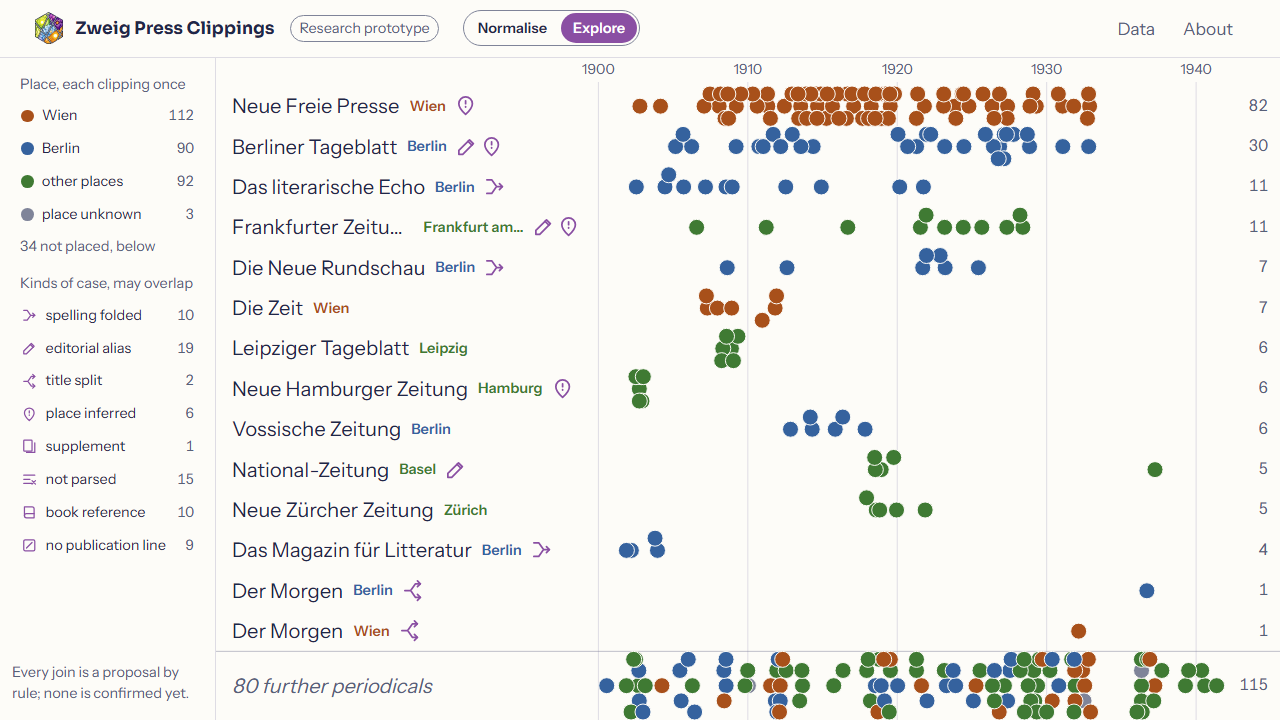
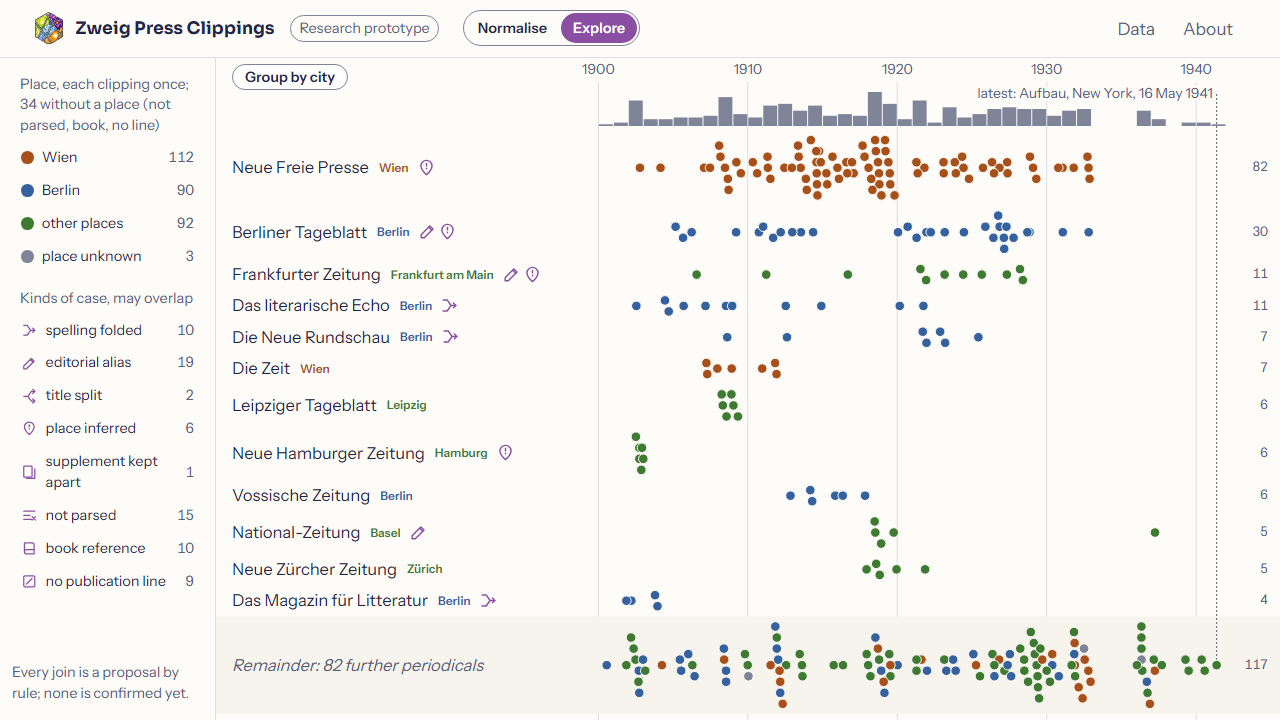
After a fresh reader: all places when grouped by city, the latest clipping named, clearer headings and side panel notes; knowledge to stage 2

diff --git a/docs/app.js b/docs/app.js
@@ -24,7 +24,7 @@ const CASES = [
   { key: "alias", icon: "alias", label: "editorial alias", tip: "a written title or place read as another by a stated editorial decision" },
   { key: "split", icon: "split", label: "title split", tip: "one title written with two places, taken as two periodicals" },
   { key: "infer", icon: "infer", label: "place inferred", tip: "no place written; taken from the other lines of the same periodical" },
-  { key: "supplement", icon: "supp", label: "supplement", tip: "a supplement written into the place, kept as a periodical of its own" },
+  { key: "supplement", icon: "supp", label: "supplement kept apart", tip: "a supplement written into the place, kept as a periodical of its own" },
   { key: "unread", icon: "unread", label: "not parsed", tip: "the parser leaves the line as it is rather than guess" },
   { key: "book", icon: "book", label: "book reference", tip: "the line names a book, not a periodical" },
   { key: "none", icon: "none", label: "no publication line", tip: "the record names no publication" },
@@ -120,7 +120,7 @@ function renderRail() {
   };
   $("#rail").innerHTML = `
     <div class="rail-group" role="group" aria-label="Place of publication, each placed clipping once">
-      <p class="rail-label">Place, each clipping once; ${c.notPlaced} not placed</p>
+      <p class="rail-label">Place, each clipping once; ${c.notPlaced} without a place (not parsed, book, no line)</p>
       ${PLACES.map((p) => btn("place", p.key, `<span class="sw city-${p.key}" aria-hidden="true"></span><span class="rl">${esc(p.label)}</span>`, `clippings in periodicals of ${p.label}`, c.places[p.key] ?? 0, p.label)).join("")}
     </div>
     <div class="rail-group" role="group" aria-label="Kinds of case, a clipping can have several">
@@ -219,7 +219,7 @@ function renderNormalise() {
   $("#normalise").innerHTML =
     group("One title, two places", splits.map(entRow)) +
     group("Possible same periodical, not joined", cands.map(candRow)) +
-    group("Not parsed: title known, date or issue unread", dateUnread.map(itemRow)) +
+    group("Not parsed: date or issue unread", dateUnread.map(itemRow)) +
     group("Not parsed: no periodical named", noPeriodical.map(itemRow)) +
     group("Place inferred, alias or supplement", inferred.map(entRow)) +
     group("Joined by rule", joined.map(entRow)) +
@@ -255,7 +255,8 @@ function exploreRows() {
   const counts = new Map();
   for (const it of placed) counts.set(groupOf(it), (counts.get(groupOf(it)) ?? 0) + 1);
   const keys = [...counts.keys()].sort((a, b) => counts.get(b) - counts.get(a) || a.localeCompare(b, "de"));
-  const shown = keys.length > MAX_ROWS + 1 ? keys.slice(0, MAX_ROWS) : keys;
+  // By city every place gets its row, so a question such as "which Swiss places" is answered on screen.
+  const shown = state.byCity || keys.length <= MAX_ROWS + 1 ? keys : keys.slice(0, MAX_ROWS);
   const ids = new Set(shown);
   const rows = shown.map((k) => (state.byCity
     ? { key: k, kind: "city", city: k.slice(5), count: counts.get(k) }
@@ -325,7 +326,8 @@ function renderExplore() {
   let rad = 8;
   let st;
   let need;
-  const minRow = narrow ? 44 : 26;
+  // Rows by city are many and short, so they may be flatter than rows by periodical.
+  const minRow = narrow ? 44 : state.byCity ? Math.max(14, Math.min(26, (avail - 80) / rows.length)) : 26;
   for (let i = 0; i < 12; i += 1) {
     st = stackRows(rows, rowOf, placed, L, rad);
     need = rows.map((r) => Math.max(minRow, st.maxStack.get(r.key) * rad * 2.05 + rad));
@@ -334,11 +336,12 @@ function renderExplore() {
     rad = Math.max(2.5, rad * Math.sqrt(avail / total) * 0.98);
   }
   const total = need.reduce((a, b) => a + b, 0);
-  const extra = Math.max(0, avail - total) / rows.length;
+  // Spare height goes to the rows only up to a calm maximum; the rest stays empty below.
+  const extra = Math.min(Math.max(0, avail - total) / rows.length, 40);
   const geo = new Map();
   let y = top;
   rows.forEach((r, i) => { const h = need[i] + extra; geo.set(r.key, { y, h }); y += h; });
-  const font = Math.max(13, Math.min(20, minRow * 0.62 + extra * 0.1));
+  const font = Math.max(12, Math.min(20, minRow * 0.62 + extra * 0.1));
 
   const svg = $("#chart");
   svg.setAttribute("width", L.width);
@@ -373,6 +376,15 @@ function renderExplore() {
       const off = (k - (its.length - 1) / 2) * rad * 2.05;
       pos.set(it.pid, { x: xOf(it.date, L), y: g.y + g.h / 2 + off });
     });
+  }
+  // Annotation: the latest clipping under the filter, named at its mark.
+  const latest = placed.filter((it) => pos.has(it.pid)).sort((a, b) => xKey(b) - xKey(a))[0];
+  if (latest) {
+    const p = pos.get(latest.pid);
+    const e = data.entityById.get(latest.entity);
+    // Named in the year strip above the rows, with a leader to its mark, so it never sits in the marks.
+    svgEl("line", { x1: p.x, x2: p.x, y1: L.axisH + 8, y2: p.y - rad, class: "leader" }, svg);
+    svgEl("text", { x: p.x - 4, y: L.axisH + 12, "text-anchor": "end", class: "axis annot" }, svg).textContent = `latest: ${e.label}, ${e.place ?? "place unknown"}, ${dateText(latest.date)}`;
   }
   const dots = svgEl("g", {}, svg);
   dotEls = new Map();

diff --git a/docs/style.css b/docs/style.css
@@ -137,6 +137,9 @@ code { font-family: var(--dh-font-mono); }
 .group-toggle { position: absolute; inset-block-start: 6px; inset-inline-start: var(--dh-space-4); pointer-events: auto; padding: 2px var(--dh-space-3); border: 1px solid var(--dh-line-strong); border-radius: var(--dh-radius-pill); background: var(--dh-surface); font-size: var(--dh-step--1); font-weight: 600; }
 .group-toggle[aria-pressed="true"] { background: var(--dh-accent); color: var(--dh-on-accent); border-color: var(--dh-accent); }
 .ybar { fill: var(--dh-line-strong); }
+/* Same text style as the axis, with a halo so it reads over the year bars. */
+.annot { paint-order: stroke; stroke: var(--dh-ground); stroke-width: 4px; }
+.leader { stroke: var(--dh-ink-soft); stroke-width: 1; stroke-dasharray: 2 2; }
 .restband { fill: var(--dh-ground-alt); }
 .rowlabel.city .sw { margin-inline-end: 2px; }
 .tip { position: absolute; z-index: 5; max-inline-size: 24rem; padding: var(--dh-space-2) var(--dh-space-3); background: var(--dh-surface); border: 1px solid var(--dh-line-strong); border-radius: var(--dh-radius-s); box-shadow: 0 4px 16px rgb(0 0 0 / .12); font-size: var(--dh-step--1); pointer-events: none; }

diff --git a/docs/index.html b/docs/index.html
@@ -87,6 +87,7 @@
   <ul class="downloads">
     <li>Clippings <a href="data/export/clippings-modelled.csv" download>CSV</a> <a href="data/export/clippings-modelled.json" download>JSON</a></li>
     <li>Register of periodicals <a href="data/export/periodicals-register.csv" download>CSV</a> <a href="data/export/periodicals-register.json" download>JSON</a></li>
+    <li>Possible same periodicals, not joined <a href="data/export/candidates-same-periodical.csv" download>CSV</a> <a href="data/export/candidates-same-periodical.json" download>JSON</a></li>
   </ul>
   <p>Licence: derived from the catalogue of Stefan Zweig Digital, Literaturarchiv Salzburg, <a href="https://creativecommons.org/licenses/by-nc/4.0/">CC BY-NC 4.0</a>.</p>
 </div>

diff --git a/knowledge/design.md b/knowledge/design.md
@@ -41,13 +41,17 @@ One header row: brand, status pill, a small segmented switch Normalise and Explo
 
 ## Visualisation logic
 
-- Explore: one mark per placed clipping, rows for the twelve largest periodicals plus every split periodical, the rest in one row; every decade labelled. Clippings without a place are not drawn on the time axis.
-- Normalise groups: "The text cannot decide" (split titles; each line not parsed as its own row with title, signature, catalogue line and facsimile), "Place inferred, alias or supplement", "Joined by rule", "Set aside by rule" (book references, no publication line), "Unchanged" (counted, can be opened). Only the catalogue forms that differ from the modelled periodical appear as chips.
+- Explore: one mark per placed clipping. Rows are chosen by count under the active filter, the twelve largest first, the rest in a shaded row labelled "Remainder"; a split title carries its sign on its row and gets no guaranteed row. A button "Group by city" turns the rows into places ranked by count; a place row filters both views to that place, and its periodicals get their own rows. A strip above the rows shows exact bars per year for the clippings under the filter. Marks that fall into the same slot are stacked, centred on the row, and each row is as tall as its highest stack needs, so no mark lies on another; the mark size shrinks until all rows fit the stage. Every decade labelled. Clippings without a place are not drawn on the time axis.
+- Normalise groups, all listed, none behind an expander: "One title, two places" (split titles), "Possible same periodical, not joined" (candidates from stated criteria in scripts/candidates.py: a supplement beside its paper, a title within a combined title, an unparsed line that begins with a known title, near-identical titles; each row shows both sides, the criterion as its sign with its name, and facsimile previews), "Not parsed: title known, date or issue unread", "Not parsed: no periodical named", "Place inferred, alias or supplement", "Joined by rule", "Set aside by rule", "Unchanged, one form each". Only the catalogue forms that differ from the modelled periodical appear as chips.
 - One sign per kind of case everywhere: spelling folded (arrow), editorial alias (pen), title split (fork), place inferred (pin), supplement (pages), not parsed, book reference, no publication line.
 - Counts: places are disjoint and sum to the placed clippings; kinds of case overlap. Both come from `data.counts`, written and tested by `scripts/model.py` and `tests/test_rules.py`.
 - Status: every statement is a proposal by rule; this is said once, in the side panel. No mark or key shows a confirmed state, since nobody has reached it.
 
 ## Measurements
+
+After stage 2 and the fresh reader (2026-11-15): Normalise passes at 1280 (58) and 360 (17); Explore passes at 360 (20) and measures 78 text elements at 1280, over the limit of 70 and within the 83 the operator accepted.
+
+Earlier state:
 
 `tools/check_ui_density.cjs`, profile `work`, 2026-11-15 after stage 1: Normalise passes at 1280 (64 text elements) and 360 (18); Explore passes at 360 (19) and exceeds the limit at 1280 with 83 text elements against 70. The excess comes from the visible case names (his request), the two side panel labels with the note on clippings not placed and the status line (review points 3 and 14), the alias and supplement entries (review point 7) and every decade on the axis (review point 6), less the removed remainder lanes. Accepted by the operator for this state: asked by the Research Coordination, verbatim, „Nimmst du die Überschreitung an, und soll die Session jetzt aus Stufe 2 die Liste der möglichen Zusammenführungen und die Übersicht nach Stadt und Jahr bauen?“, he answered „ja ja“ (2026-11-15). The acceptance covers these 83 text elements in Explore at 1280, not further growth; anything added later is measured and reported again.
 

diff --git a/knowledge/specification.md b/knowledge/specification.md
@@ -19,7 +19,9 @@ What the tool does and under which constraints it is built.
 - A research tool that carries catalogue data into a modelled schema, in two views on one dataset: Normalise (the rules' proposals, the uncertain first, with the evidence beside them) and Explore (the modelled clippings by periodical and year). Deciding in Normalise (confirm, reject, change, by a named person) is planned in [plan.md](plan.md), not built.
 - The output is the product: `docs/data/export/` holds the modelled clippings and a register of periodicals as CSV and JSON with licence, written by `scripts/export.py` and offered under Data.
 - Every number on the page is computed by code: entity, status and export counts in `tests/test_model.py`, side panel counts and rule invariants (supplements, alias scope, written forms and dates found in the catalogue line) in `tests/test_rules.py`.
-- Clippings not read as a periodical (not parsed, book reference, no publication line) are counted and shown, never dropped.
+- Clippings not read as a periodical (not parsed, book reference, no publication line) are counted and shown, never dropped; lines not parsed are told apart by cause.
+- Possible same periodicals that no rule joins are proposed as questions by stated, tested criteria (`scripts/candidates.py`, `tests/test_candidates.py`); nothing is joined by them, and the export carries them as `candidates-same-periodical`.
+- Explore answers place and time questions in the page: rows group by periodical or by city, a city filters both views, a strip shows the clippings per year.
 - A clipping's detail shows its catalogue line, the reading by rule, the rules applied, the signature, a facsimile with a deep-zoom viewer fed by the archive's IIIF service, and the link to the object in GAMS. A periodical's detail shows every catalogue form joined, the rule or reason, and the facsimiles of its clippings.
 - Static HTML, CSS and JavaScript with prebuilt JSON, no build step, no runtime CDN, no client key; OpenSeadragon vendored. Explore fits one screen at 1280 x 720, 1024 x 768 and 1620 x 920; the page works at 360 px and at 200 per cent zoom; every action is reachable by keyboard (`tests/ui/keyboard.cjs`).
 - English interface copy.
@@ -38,6 +40,6 @@ The stories for the work after the talk are in [plan.md](plan.md). For the state
 
 ## Decisions
 
-- Shown rows in Explore: the twelve largest periodicals plus every periodical produced by a split.
+- Shown rows in Explore: the twelve largest periodicals or places under the active filter; the rest in one remainder row.
 - A supplement written into the place ("München (Beilage)") is kept as a periodical of its own; place aliases can be limited to the titles their reason names ("Frankfurt" only for the Frankfurter Zeitung).
 - A clipping counts under "spelling folded" only if its own catalogue line was changed by the folding rule; a missing place counts as "place inferred", not as a folded spelling.

diff --git a/knowledge/journal.md b/knowledge/journal.md
@@ -23,6 +23,15 @@ template: journal
 
 ## Entries
 
+### 2026-11-15 Stage 2: possible same periodicals, place and year
+
+- Trigger: the operator accepted the Explore excess for the stage 1 state (83 text elements) and asked for two parts of stage 2.
+- Built: scripts/candidates.py with four stated criteria (supplement beside its paper, title within a combined title, unparsed line beginning with a known title, near-identical titles); nine candidates, none near-identical, nothing joined; exported as candidates-same-periodical. Unparsed lines by cause. Normalise without expander. Explore: group by city with a city filter, all places listed by city, exact bars per year, rows by count under the filter, stacked marks without overlap, an annotation naming the latest clipping, a shaded remainder row.
+- Fresh reader, four tasks from the data reviewer's evaluation design, screenshots only. Right: the five unparsed lines with a known title (with a doubt caused by the heading "Not parsed: title known, ..."); a supplement is not joined, only proposed, by the supplement criterion. Partly right: Swiss periodicals, three of seven, because Genf and Bern sat in the remainder. Not solvable: the latest clipping, which sat unnamed in the remainder.
+- Changed after the reader: heading "Not parsed: date or issue unread"; every place listed when grouped by city; the latest clipping named in the year strip with a leader; "supplement kept apart" in the side panel against the three supplement candidates; the side panel explains the 34 clippings without a place; spare height no longer stretches filtered rows apart.
+- Evidence: 29 tests (tests/test_candidates.py new); keyboard script 22 of 22 including group by city and city filter; viewer script 6 of 6; no identical mark positions at 1280, 1024 and 1620 in the city grouping; density in design.md.
+- Open: no second fresh reader after these changes; the side panel's case counts stay counts of the whole collection under a filter (a reader took them for unresponsive filters).
+
 ### 2026-11-15 Three independent reviews, stage 1 corrections
 
 - Trigger: three read-only reviews started by the Research Coordination (interface and text; CSS, design system and code; data against the facsimiles with an evaluation design), checked and passed on by the coordination as stage 1.

diff --git a/README.md b/README.md
@@ -20,6 +20,8 @@ python -m pytest tests
 node tests/ui/keyboard.cjs   # browser checks against the local server, needs Playwright
 ```
 
+`scripts/candidates.py` proposes possible same periodicals by stated criteria without joining them; the export writes them to `docs/data/export/candidates-same-periodical.*`.
+
 `scripts/fetch_facsimiles.py` downloads and reduces the first facsimile page of each clipping from GAMS; it skips files already present.
 
 ## Layout
